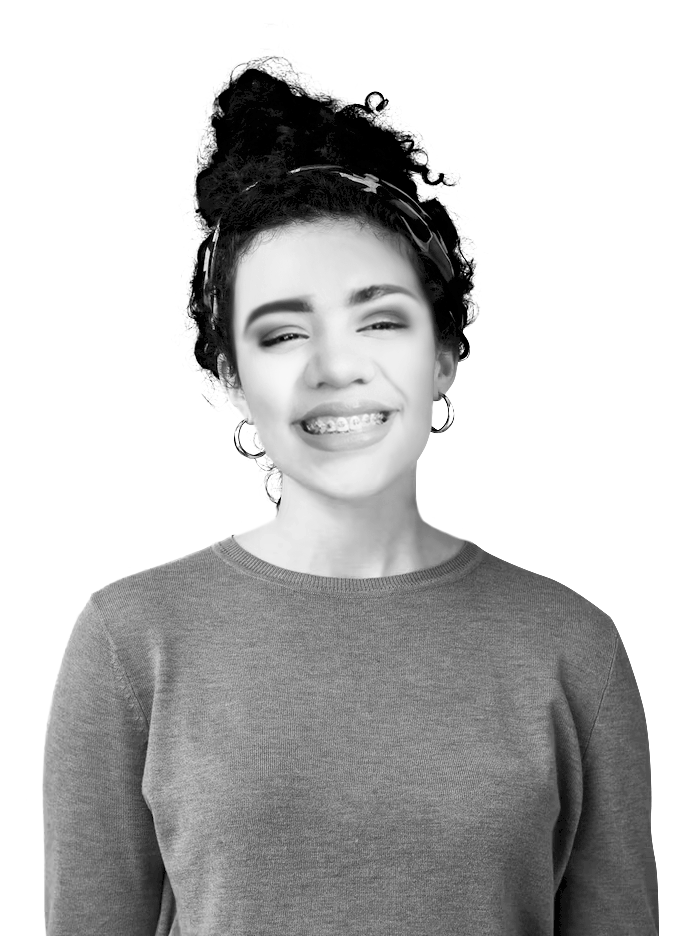
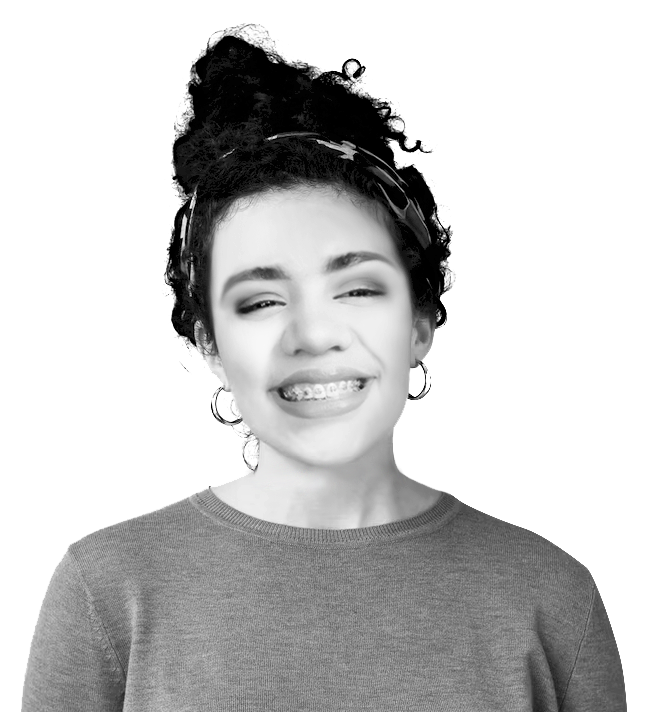
avances home

diff --git a/css/estilos.css b/css/estilos.css
@@ -38,7 +38,7 @@
 /* line 40, ../../../OneDrive/Escritorio/mi pagina web1/sass/estilos.scss */
 h1 {
   color: #000000;
-  font-size: 55px;
+  font-size: 85px;
   font-family: Montserrat-ExtraBold, sans-serif;
 }
 
@@ -126,64 +126,89 @@ main {
 
 /* line 98, ../../../OneDrive/Escritorio/mi pagina web1/sass/estilos.scss */
 .sobremi {
-  color: #EDEDED;
-  font-family: Montserrat-ExtraBold, sans-serif;
-  font-size: 120px;
+  margin-top: 100px;
 }
 
-/* line 101, ../../../OneDrive/Escritorio/mi pagina web1/sass/estilos.scss */
+/* line 103, ../../../OneDrive/Escritorio/mi pagina web1/sass/estilos.scss */
 .row {
   justify-content: space-between;
   padding-top: 20px;
+  flex-grow: inherit;
 }
 
-/* line 104, ../../../OneDrive/Escritorio/mi pagina web1/sass/estilos.scss */
+/* line 106, ../../../OneDrive/Escritorio/mi pagina web1/sass/estilos.scss */
 .columna1 {
   padding-top: 80px;
   justify-content: space-between;
 }
 
-/* line 106, ../../../OneDrive/Escritorio/mi pagina web1/sass/estilos.scss */
+/* line 108, ../../../OneDrive/Escritorio/mi pagina web1/sass/estilos.scss */
 .columna1 h3 {
   text-align: justify;
 }
 
-/* line 109, ../../../OneDrive/Escritorio/mi pagina web1/sass/estilos.scss */
+/* line 111, ../../../OneDrive/Escritorio/mi pagina web1/sass/estilos.scss */
+.img-fluid #erika {
+  max-width: 100%;
+}
+
+/* line 114, ../../../OneDrive/Escritorio/mi pagina web1/sass/estilos.scss */
+div .row {
+  --bs-gutter-x:none ;
+}
+
+/* line 117, ../../../OneDrive/Escritorio/mi pagina web1/sass/estilos.scss */
+.col img {
+  margin: 5px;
+  flex-grow: 0;
+  flex-shrink: 0;
+  margin-top: 50px;
+  filter: grayscale(100);
+  transition: all .3s;
+  border-radius: 10px;
+}
+
+/* line 123, ../../../OneDrive/Escritorio/mi pagina web1/sass/estilos.scss */
+.col img:hover {
+  filter: grayscale(0);
+}
+
+/* line 128, ../../../OneDrive/Escritorio/mi pagina web1/sass/estilos.scss */
 .text-center img {
   filter: grayscale(100);
   transition: all .3s;
   border-radius: 10px;
 }
 
-/* line 115, ../../../OneDrive/Escritorio/mi pagina web1/sass/estilos.scss */
+/* line 134, ../../../OneDrive/Escritorio/mi pagina web1/sass/estilos.scss */
 .text-center img:hover {
   filter: grayscale(0);
 }
 
-/* line 119, ../../../OneDrive/Escritorio/mi pagina web1/sass/estilos.scss */
+/* line 138, ../../../OneDrive/Escritorio/mi pagina web1/sass/estilos.scss */
 .piedeimagen p {
   text-align: center;
 }
 
-/* line 122, ../../../OneDrive/Escritorio/mi pagina web1/sass/estilos.scss */
+/* line 141, ../../../OneDrive/Escritorio/mi pagina web1/sass/estilos.scss */
 .piedeimagen hr {
   position: relative;
   margin-left: 10%;
 }
 
-/* line 125, ../../../OneDrive/Escritorio/mi pagina web1/sass/estilos.scss */
+/* line 144, ../../../OneDrive/Escritorio/mi pagina web1/sass/estilos.scss */
 .btn-primary {
   background-color: #EDEDED;
   border-color: inherit;
 }
 
-/* line 128, ../../../OneDrive/Escritorio/mi pagina web1/sass/estilos.scss */
+/* line 147, ../../../OneDrive/Escritorio/mi pagina web1/sass/estilos.scss */
 .btn-primary :hover {
   background-color: #00D8DD;
   border-color: #00D8DD;
 }
 
-/* line 132, ../../../OneDrive/Escritorio/mi pagina web1/sass/estilos.scss */
+/* line 151, ../../../OneDrive/Escritorio/mi pagina web1/sass/estilos.scss */
 footer {
   background-color: #EDEDED;
 }

diff --git a/index.html b/index.html
@@ -50,21 +50,29 @@
       <hr width="80%" >
     </div>
 
-  
-  <div class= "sobremi container fluid">
-
-     <p>SOBRE MI</p>
-  </div>
 
   <section  class="seccion2 container fluid ">
+   <img src="img/sobremi.png" class="img-fluid sobremi"  alt="sobre mi">
       <div class="row">
-        <div class="col-lg-5 col-sm-12 columna1"><h1>HOLA :D</h1>
+        <div class="col-xxl-5 col-md-6  col-sm-12 columna1">
+          <h1>HOLA :D</h1>
           <h2>Bienvenidos a mi web site</h2>
           <h3>Mi nombre es Erika Romero, soy Licenciada en Diseño gráfico con más de 5 años de experiencia en diseño de identidad corporativa, empaques, publicidad para medios impresos y redes sociales.
            Actualmente estoy incursionando en el mundo de la ilustración, diseño UX UI y desarrollo web.
-           Si deseas conocer un poco mas mi trabajo te invito a ver <a href="html/portfolio.html">mi portfolio.</a> </h3></div>
-        <div class="col-md-5 col-sm-12" id="erika" >
-          <img src="img/erikainicio.png" class="img-fluid" alt="erika" height="500" >
+           Si deseas conocer un poco mas mi trabajo te invito a ver <a href="html/portfolio.html">mi portfolio.</a> </h3>
+           <div class="container logos">
+            <div class="row ">
+              <div class="col"><img src="img/illustrator.png" width="45px" alt="adobe illustrator"></div>
+              <div class="col"><img src="img/photoshop.png" width="45px" alt="adobe photoshop"></div>
+              <div class="col"><img src="img/indesing.png" width="45px" alt="adobe indesing"></div>
+              <div class="col"><img src="img/afterefects.png"  width="45px" alt="adobe afterefects"></div>
+              <div class="col"><img src="img/corel.png"  width="45px" alt="corel draw"></div>
+              <div class="col"><img src="img/figma.png"  width="45px" alt="figma"></div>
+            </div>
+          </div>
+       </div>
+           <div class="col-xxl-5 col-md-5 col-sm-12" id="erika" >
+          <img src="img/erikainicio.png" class="img-fluid" alt="erika" >
         </div>
       </div>
     </div>
@@ -89,13 +97,13 @@
         </div>
 
         <div class="col-sm-4 col-md-1">
-          <img src="img/behance.png" class="img-fluid" width="28px">
+          <img src="img/behance.png" class="img-fluid" alt="logo behance" width="28px">
         </div>
         <div class="col-sm-4 col-md-1">
-          <img src="img/instagram.png" class="img-fluid" alt="" width="28px">
+          <img src="img/instagram.png" class="img-fluid" alt="logo instagram" width="28px">
         </div>
         <div class="col-sm-4 col-md-1">
-         <a href="https://www.facebook.com/erika.mver"> <img src="img/facebook.png" class="img-fluid" alt="" width="28px">
+         <a href="https://www.facebook.com/erika.mver"> <img src="img/facebook.png" class="img-fluid" alt="logo facebook" width="28px">
          </a>
         </div>
 

diff --git a/sass/estilos.scss b/sass/estilos.scss
@@ -38,7 +38,7 @@
 }
 
 h1 {
-    color: #000000; font-size:55px; font-family: Montserrat-ExtraBold, sans-serif;
+    color: #000000; font-size:85px; font-family: Montserrat-ExtraBold, sans-serif;
 }
 h2{
     font-family: Montserrat-Light,sans-serif;
@@ -95,16 +95,35 @@ main { margin-top: 300px;
 .piedeimagen hr {  
 }
 
-.sobremi  { color: #EDEDED; font-family: Montserrat-ExtraBold, sans-serif ; font-size: 120px;
+ .sobremi { margin-top: 100px;
 }
 
-.row { justify-content: space-between; padding-top: 20px;
+
+
+.row { justify-content: space-between; padding-top: 20px; flex-grow: inherit;
 }
 
 .columna1 { padding-top: 80px; justify-content: space-between;}
 
 .columna1 h3 { text-align: justify
 }
+
+.img-fluid #erika {  max-width: 100%;
+}
+
+div .row { --bs-gutter-x:none ;
+}
+
+.col img { margin:5px ; flex-grow: 0; flex-shrink: 0; margin-top: 50px;
+    filter: grayscale(100);
+    transition: all .3s;
+    border-radius: 10px;
+}
+
+.col img:hover {
+    filter: grayscale(0);
+}
+
 
 .text-center img {
     filter: grayscale(100);
